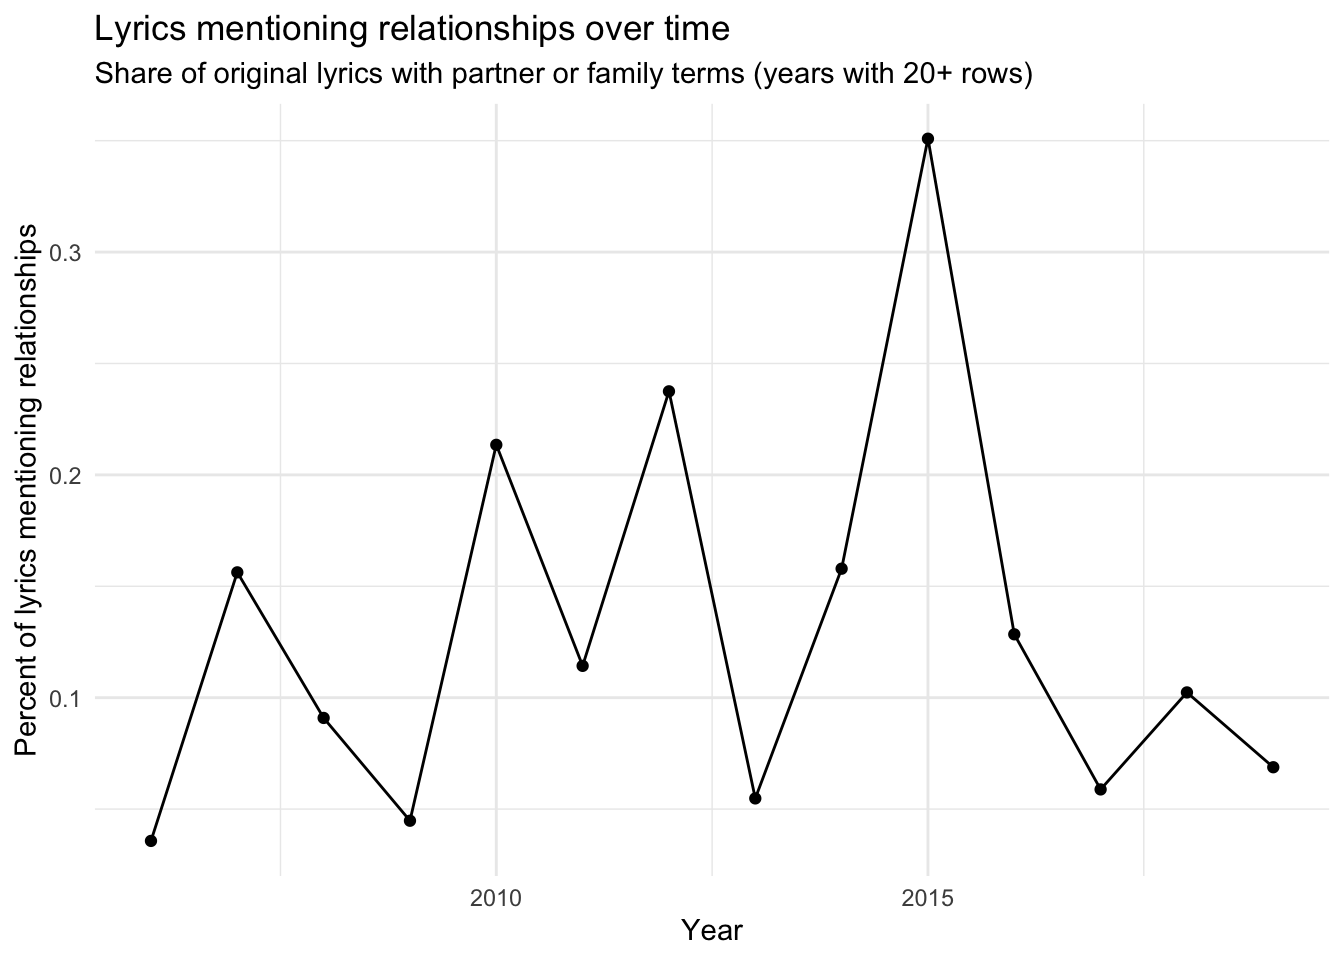
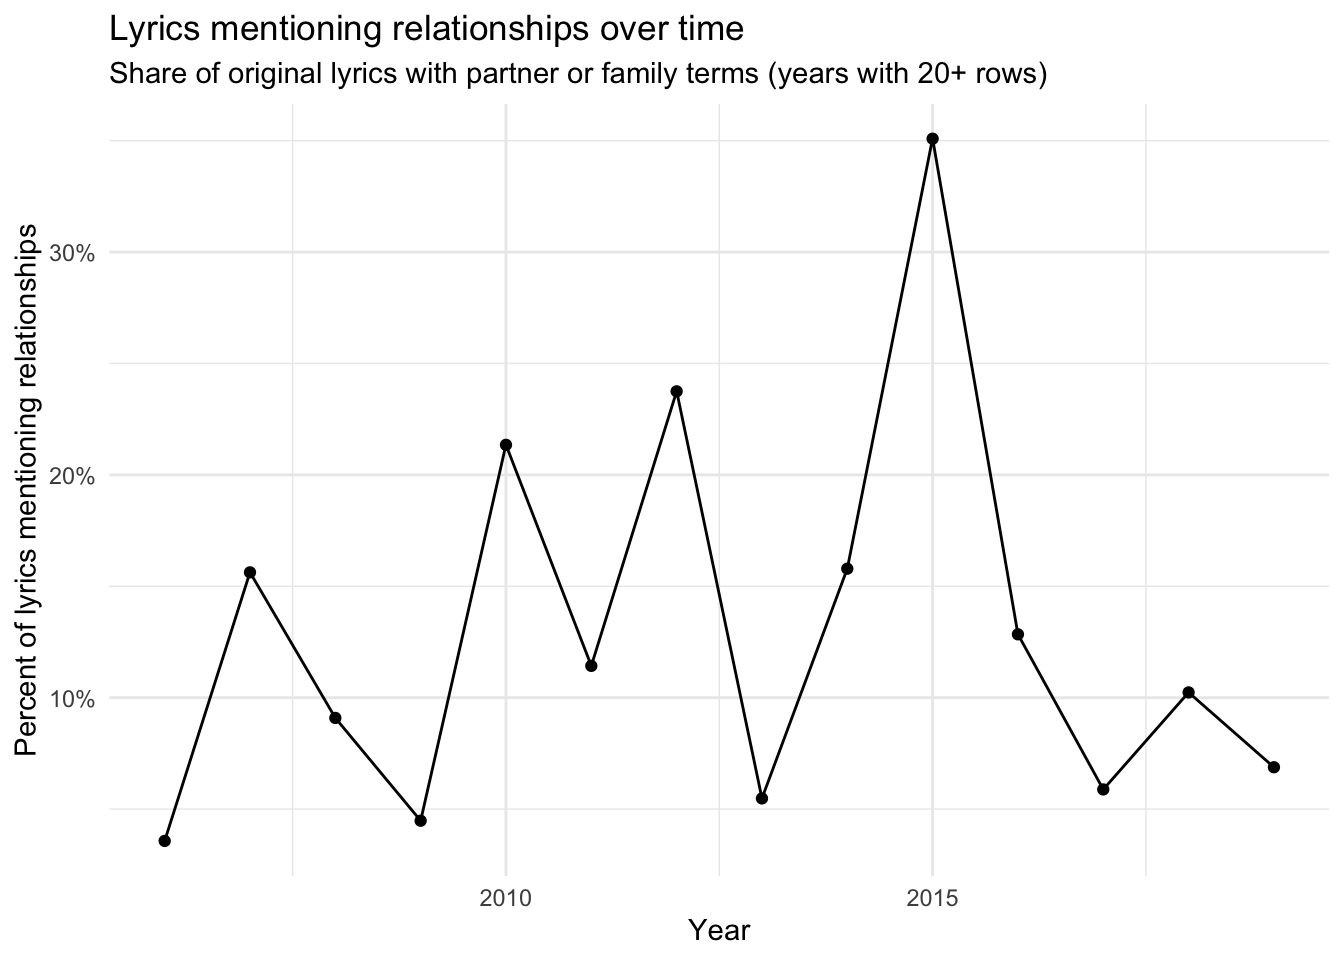
fixed set up chunk

diff --git a/docs/kidzbop.html b/docs/kidzbop.html
@@ -7,7 +7,7 @@
 <meta name="viewport" content="width=device-width, initial-scale=1.0, user-scalable=yes">
 
 <meta name="author" content="Guy Fuchs">
-<meta name="dcterms.date" content="2025-10-05">
+<meta name="dcterms.date" content="2025-10-07">
 <meta name="description" content="Analysis of censored lyrics in Kidz Bop songs">
 
 <title>Kidz Bop Censored Lyrics – Guy Fuchs</title>
@@ -196,7 +196,7 @@ pre > code.sourceCode > span > a:first-child::before { text-decoration: underlin
     <div>
     <div class="quarto-title-meta-heading">Published</div>
     <div class="quarto-title-meta-contents">
-      <p class="date">October 5, 2025</p>
+      <p class="date">October 7, 2025</p>
     </div>
   </div>
   
@@ -216,14 +216,7 @@ Original source: <a href="https://raw.githubusercontent.com/the-pudding/data/mas
 <details class="code-fold">
 <summary>Code</summary>
 <div class="sourceCode cell-code" id="cb1"><pre class="sourceCode r code-with-copy"><code class="sourceCode r"><span id="cb1-1"><a href="#cb1-1" aria-hidden="true" tabindex="-1"></a><span class="fu">library</span>(tidyverse)</span>
-<span id="cb1-2"><a href="#cb1-2" aria-hidden="true" tabindex="-1"></a><span class="fu">library</span>(stringr)</span>
-<span id="cb1-3"><a href="#cb1-3" aria-hidden="true" tabindex="-1"></a><span class="fu">library</span>(janitor)</span>
-<span id="cb1-4"><a href="#cb1-4" aria-hidden="true" tabindex="-1"></a><span class="fu">library</span>(lubridate)</span>
-<span id="cb1-5"><a href="#cb1-5" aria-hidden="true" tabindex="-1"></a><span class="fu">library</span>(parsedate)</span>
-<span id="cb1-6"><a href="#cb1-6" aria-hidden="true" tabindex="-1"></a><span class="fu">library</span>(scales)</span>
-<span id="cb1-7"><a href="#cb1-7" aria-hidden="true" tabindex="-1"></a><span class="fu">library</span>(glue)</span>
-<span id="cb1-8"><a href="#cb1-8" aria-hidden="true" tabindex="-1"></a><span class="fu">library</span>(purrr)</span>
-<span id="cb1-9"><a href="#cb1-9" aria-hidden="true" tabindex="-1"></a><span class="fu">library</span>(tidytext)</span></code><button title="Copy to Clipboard" class="code-copy-button"><i class="bi"></i></button></pre></div>
+<span id="cb1-2"><a href="#cb1-2" aria-hidden="true" tabindex="-1"></a><span class="fu">library</span>(scales)</span></code><button title="Copy to Clipboard" class="code-copy-button"><i class="bi"></i></button></pre></div>
 </details>
 </div>
 <div class="cell">
@@ -318,13 +311,14 @@ Original source: <a href="https://raw.githubusercontent.com/the-pudding/data/mas
 <span id="cb7-14"><a href="#cb7-14" aria-hidden="true" tabindex="-1"></a><span class="fu">ggplot</span>(by_year, <span class="fu">aes</span>(<span class="at">x =</span> year, <span class="at">y =</span> pct)) <span class="sc">+</span></span>
 <span id="cb7-15"><a href="#cb7-15" aria-hidden="true" tabindex="-1"></a>  <span class="fu">geom_line</span>() <span class="sc">+</span></span>
 <span id="cb7-16"><a href="#cb7-16" aria-hidden="true" tabindex="-1"></a>  <span class="fu">geom_point</span>() <span class="sc">+</span></span>
-<span id="cb7-17"><a href="#cb7-17" aria-hidden="true" tabindex="-1"></a>  <span class="fu">labs</span>(</span>
-<span id="cb7-18"><a href="#cb7-18" aria-hidden="true" tabindex="-1"></a>    <span class="at">title =</span> <span class="st">"Lyrics mentioning relationships over time"</span>,</span>
-<span id="cb7-19"><a href="#cb7-19" aria-hidden="true" tabindex="-1"></a>    <span class="at">subtitle =</span> <span class="st">"Share of original lyrics with partner or family terms (years with 20+ rows)"</span>,</span>
-<span id="cb7-20"><a href="#cb7-20" aria-hidden="true" tabindex="-1"></a>    <span class="at">x =</span> <span class="st">"Year"</span>,</span>
-<span id="cb7-21"><a href="#cb7-21" aria-hidden="true" tabindex="-1"></a>    <span class="at">y =</span> <span class="st">"Percent of lyrics mentioning relationships"</span></span>
-<span id="cb7-22"><a href="#cb7-22" aria-hidden="true" tabindex="-1"></a>  ) <span class="sc">+</span></span>
-<span id="cb7-23"><a href="#cb7-23" aria-hidden="true" tabindex="-1"></a>  <span class="fu">theme_minimal</span>()</span></code><button title="Copy to Clipboard" class="code-copy-button"><i class="bi"></i></button></pre></div>
+<span id="cb7-17"><a href="#cb7-17" aria-hidden="true" tabindex="-1"></a>  <span class="fu">scale_y_continuous</span>(<span class="at">labels =</span> scales<span class="sc">::</span><span class="fu">percent_format</span>(<span class="at">accuracy =</span> <span class="dv">1</span>)) <span class="sc">+</span></span>
+<span id="cb7-18"><a href="#cb7-18" aria-hidden="true" tabindex="-1"></a>  <span class="fu">labs</span>(</span>
+<span id="cb7-19"><a href="#cb7-19" aria-hidden="true" tabindex="-1"></a>    <span class="at">title =</span> <span class="st">"Lyrics mentioning relationships over time"</span>,</span>
+<span id="cb7-20"><a href="#cb7-20" aria-hidden="true" tabindex="-1"></a>    <span class="at">subtitle =</span> <span class="st">"Share of original lyrics with partner or family terms (years with 20+ rows)"</span>,</span>
+<span id="cb7-21"><a href="#cb7-21" aria-hidden="true" tabindex="-1"></a>    <span class="at">x =</span> <span class="st">"Year"</span>,</span>
+<span id="cb7-22"><a href="#cb7-22" aria-hidden="true" tabindex="-1"></a>    <span class="at">y =</span> <span class="st">"Percent of lyrics mentioning relationships"</span></span>
+<span id="cb7-23"><a href="#cb7-23" aria-hidden="true" tabindex="-1"></a>  ) <span class="sc">+</span></span>
+<span id="cb7-24"><a href="#cb7-24" aria-hidden="true" tabindex="-1"></a>  <span class="fu">theme_minimal</span>()</span></code><button title="Copy to Clipboard" class="code-copy-button"><i class="bi"></i></button></pre></div>
 <div class="cell-output-display">
 <div>
 <figure class="figure">
